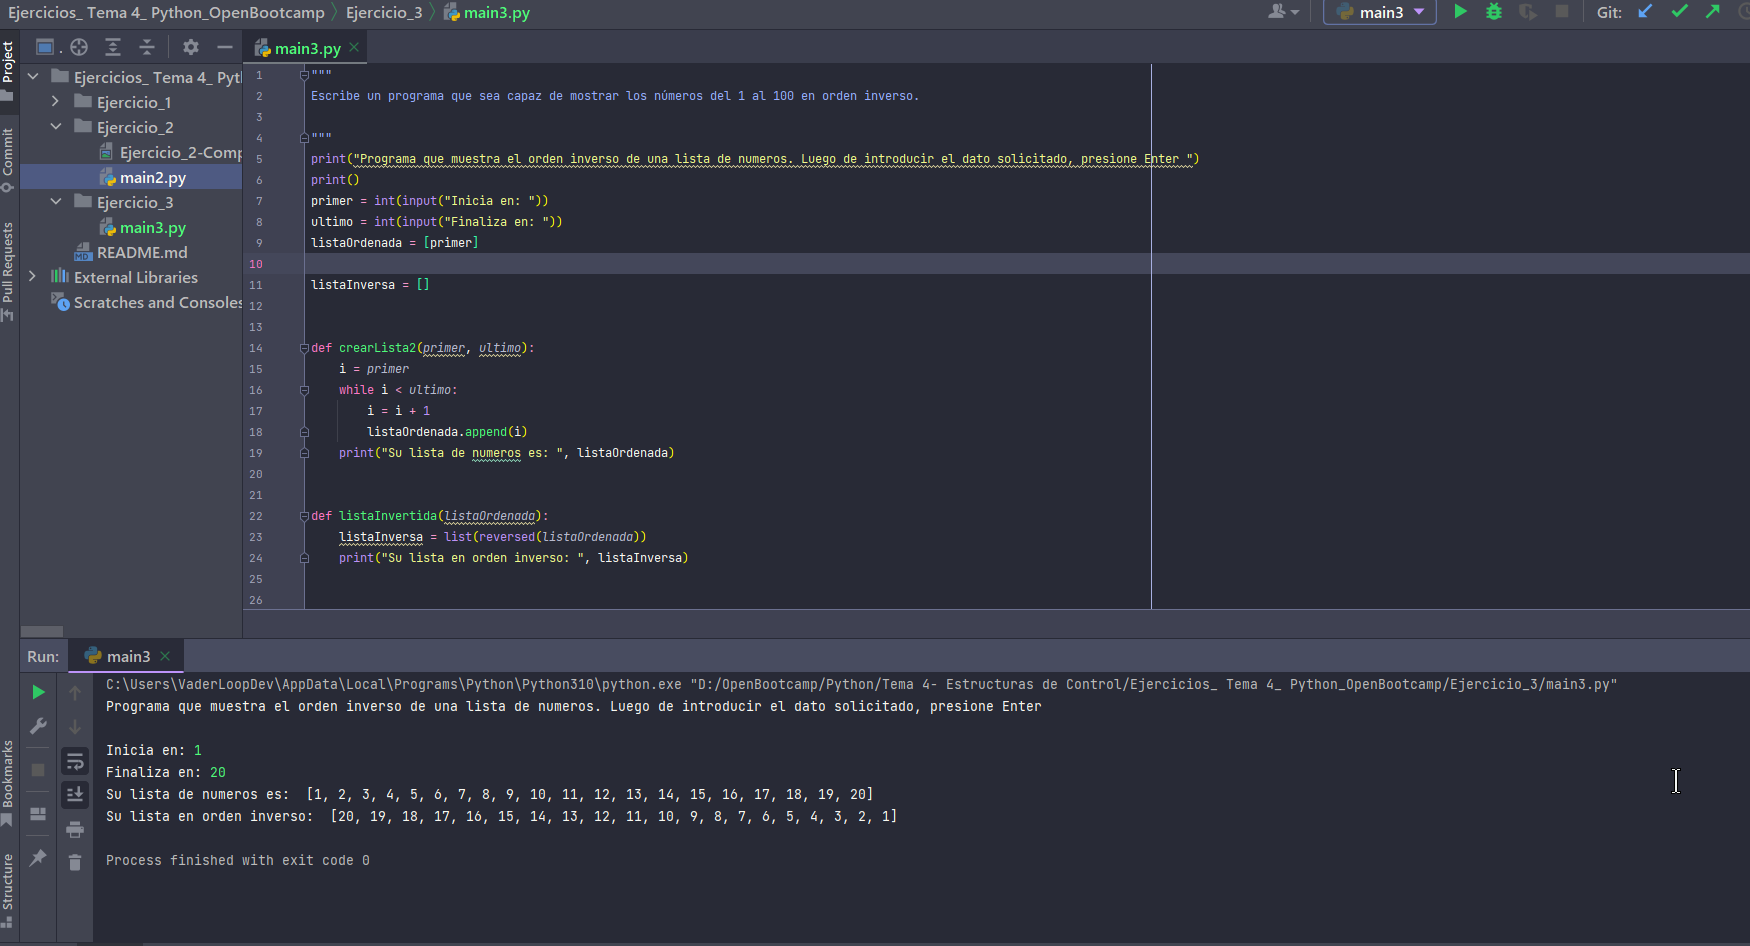
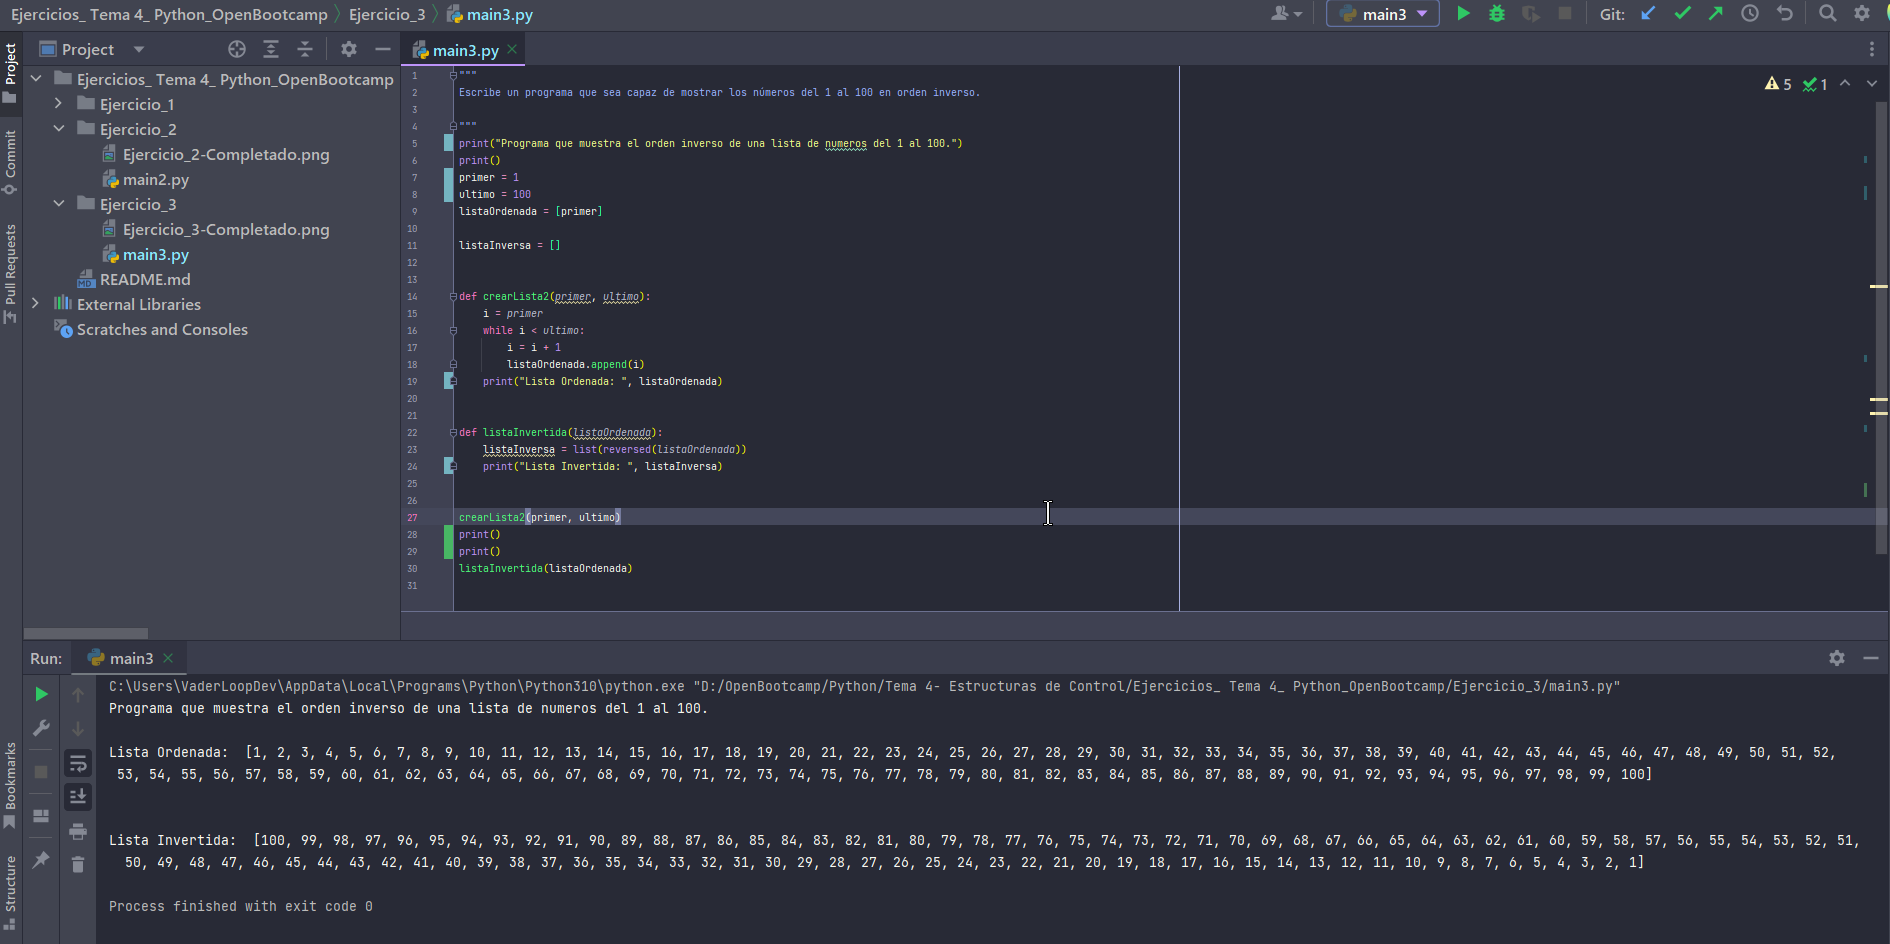
Correccion  ejercicio 3 + screenshot _ver final

diff --git a/Ejercicio_3/main3.py b/Ejercicio_3/main3.py
@@ -2,10 +2,10 @@
 Escribe un programa que sea capaz de mostrar los números del 1 al 100 en orden inverso.
 
 """
-print("Programa que muestra el orden inverso de una lista de numeros. Luego de introducir el dato solicitado, presione Enter ")
+print("Programa que muestra el orden inverso de una lista de numeros del 1 al 100.")
 print()
-primer = int(input("Inicia en: "))
-ultimo = int(input("Finaliza en: "))
+primer = 1
+ultimo = 100
 listaOrdenada = [primer]
 
 listaInversa = []
@@ -16,13 +16,15 @@ def crearLista2(primer, ultimo):
     while i < ultimo:
         i = i + 1
         listaOrdenada.append(i)
-    print("Su lista de numeros es: ", listaOrdenada)
+    print("Lista Ordenada: ", listaOrdenada)
 
 
 def listaInvertida(listaOrdenada):
     listaInversa = list(reversed(listaOrdenada))
-    print("Su lista en orden inverso: ", listaInversa)
+    print("Lista Invertida: ", listaInversa)
 
 
 crearLista2(primer, ultimo)
+print()
+print()
 listaInvertida(listaOrdenada)
